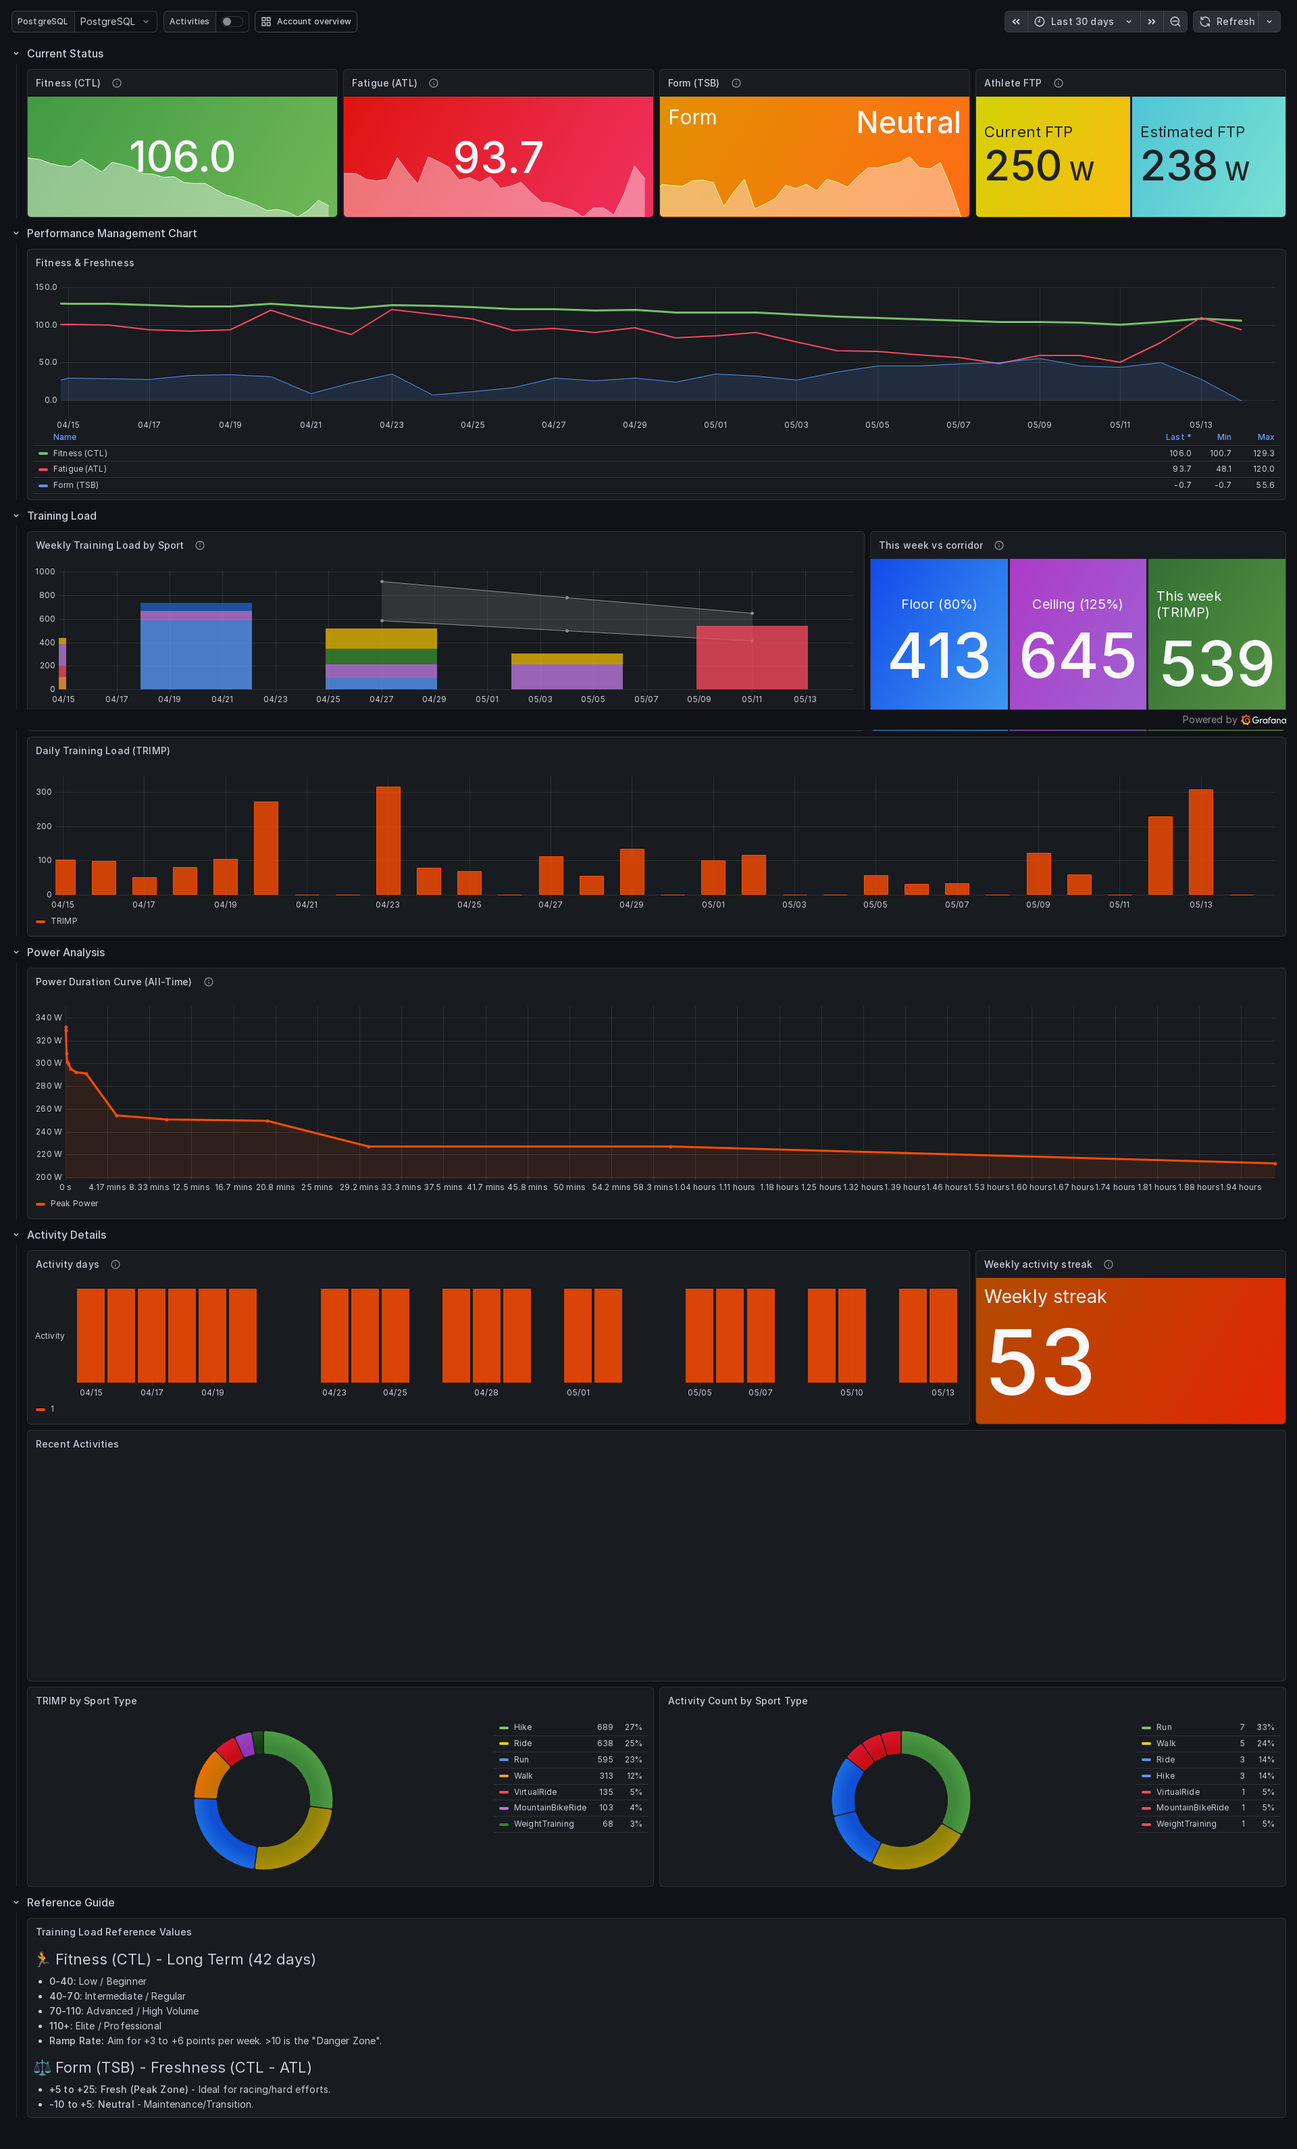
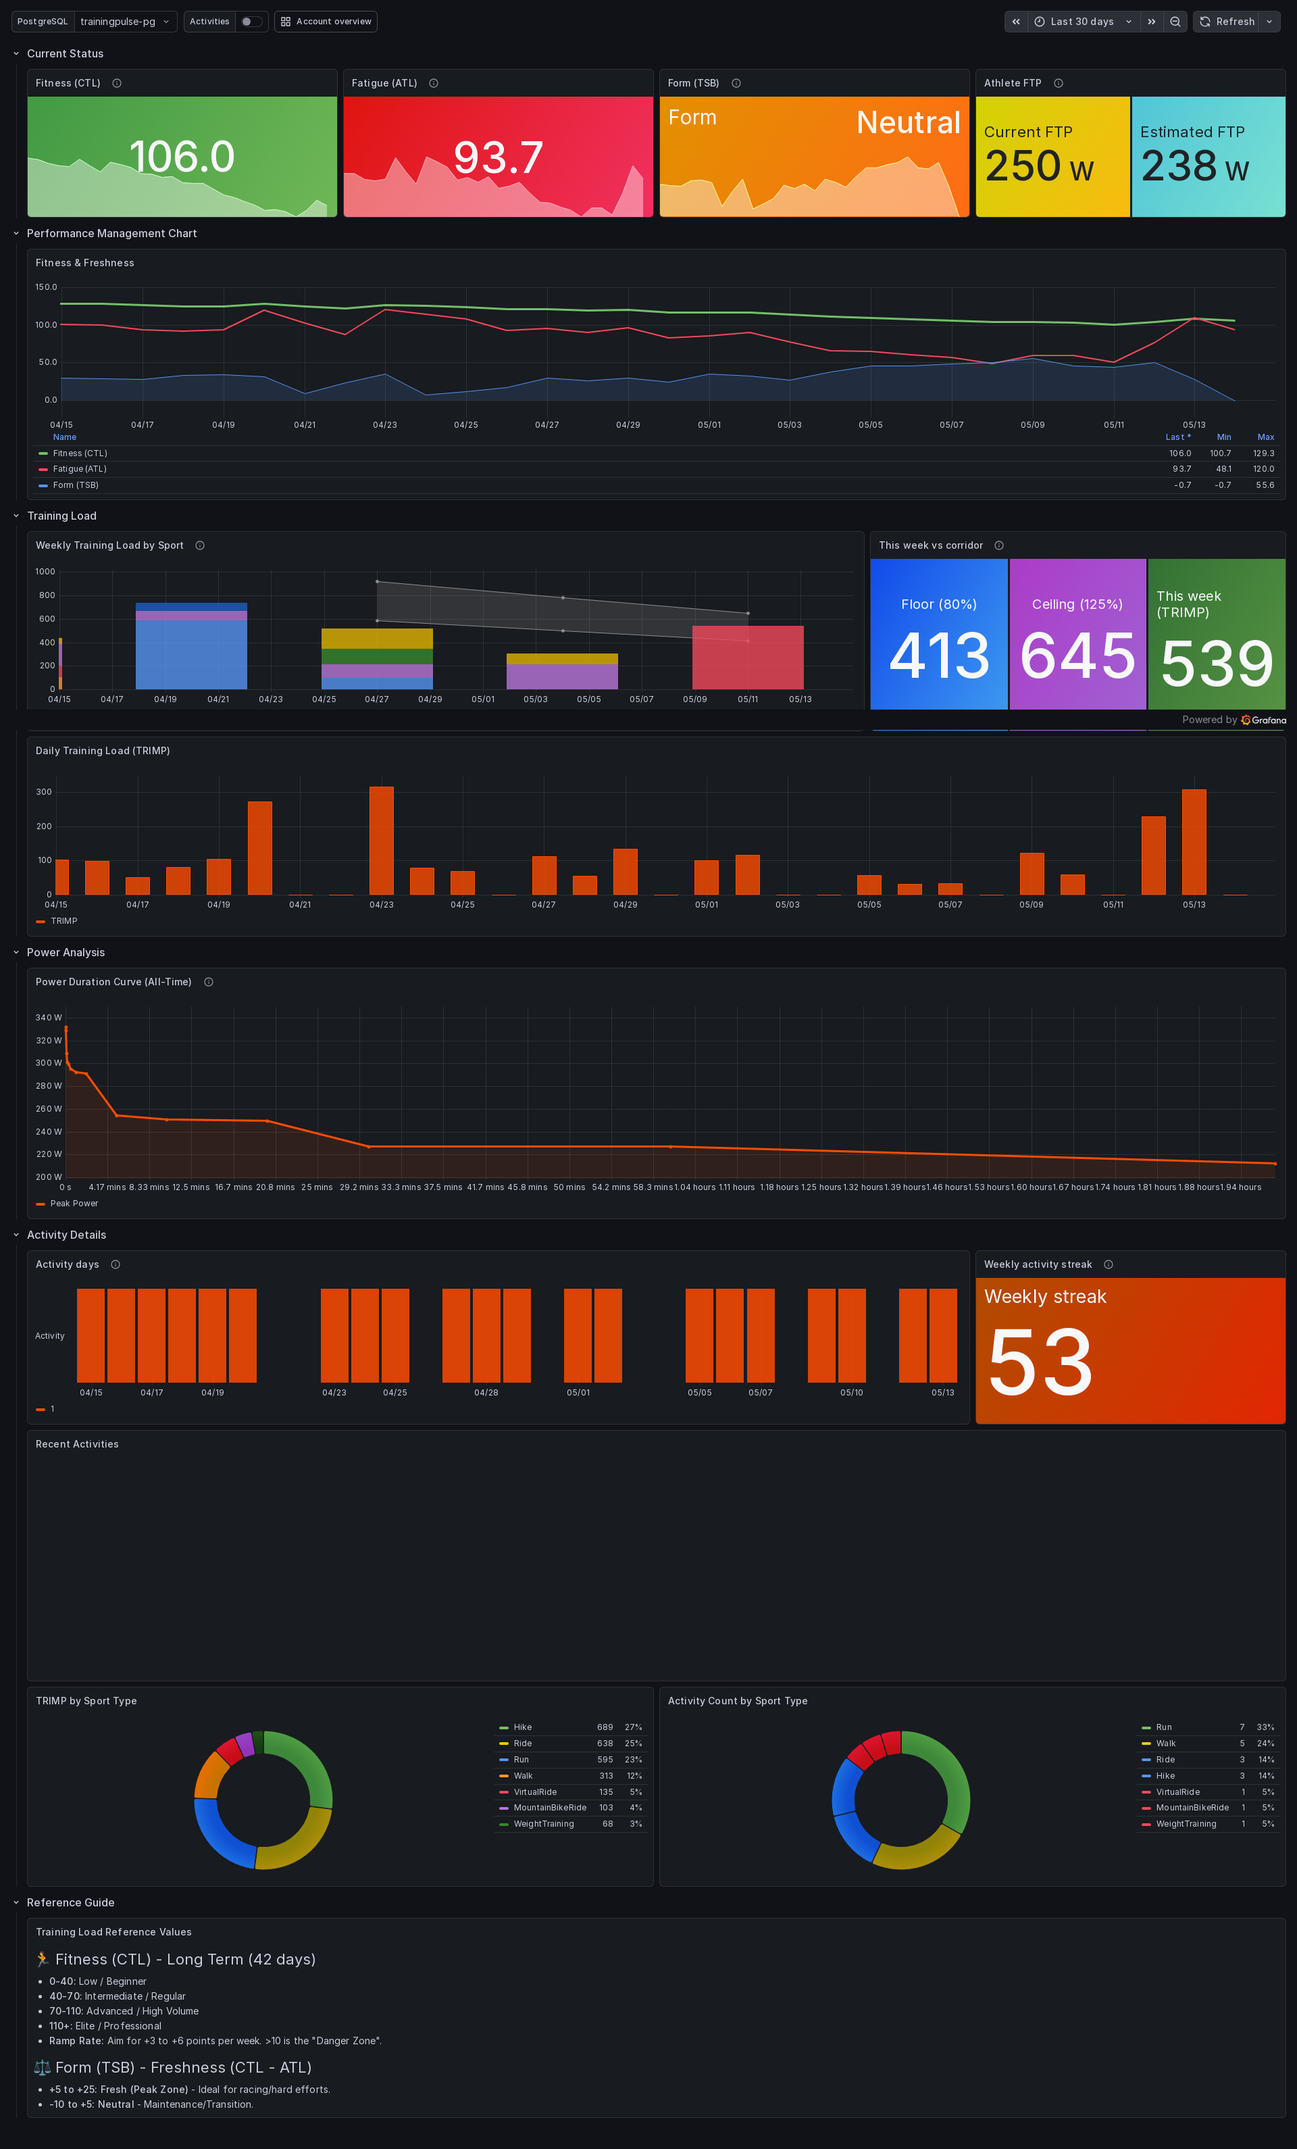
update branding

diff --git a/app/main.py b/app/main.py
@@ -1,8 +1,8 @@
-"""Strava Fitness Tracker — FastAPI application.
+"""TrainingPulse — FastAPI application.
 
 Provides:
 - OAuth2 login flow with Strava
-- Status page showing sync progress and current metrics
+- Status page showing sync progress and current metrics (TRIMP, CTL, ATL, TSB, and related training-load metrics)
 - Background scheduler for periodic syncing
 """
 
@@ -24,6 +24,8 @@ from database import async_session, engine
 from models import Activity, ActivityStream, Base, DailyMetrics, StravaToken
 from strava_client import StravaClient
 from sync import _snapshot_rate_limits, run_sync, sync_state
+
+APP_DISPLAY_NAME = "TrainingPulse"
 
 logging.basicConfig(
     level=logging.INFO,
@@ -53,7 +55,7 @@ async def lifespan(app: FastAPI):
         trigger_sync_task,
         "interval",
         minutes=settings.SYNC_INTERVAL_MINUTES,
-        id="strava_sync",
+        id="trainingpulse_sync",
         replace_existing=True,
         next_run_time=datetime.now(timezone.utc),  # Run immediately on startup
     )
@@ -69,7 +71,7 @@ async def lifespan(app: FastAPI):
     await engine.dispose()
 
 
-app = FastAPI(title="Strava Fitness Tracker", lifespan=lifespan)
+app = FastAPI(title=APP_DISPLAY_NAME, lifespan=lifespan)
 
 # Mount static files for assets and favicon
 app.mount("/static", StaticFiles(directory="static"), name="static")
@@ -166,10 +168,10 @@ async def auth_callback(code: str | None = None, error: str | None = None):
             "Connected!",
             f"""
             <div class="card success">
-                <h2>✅ Connected to Strava</h2>
+                <h2>✅ Strava account linked</h2>
                 <p>Welcome, <strong>{athlete.get('firstname', '')} {athlete.get('lastname', '')}</strong>!</p>
                 <p>Your activities are now being synced. This may take a while for the initial backfill.</p>
-                <p><a href="/" class="btn">View Status →</a></p>
+                <p><a href="/" class="btn btn-neutral">View Status →</a></p>
             </div>
             """,
         )
@@ -235,12 +237,15 @@ async def home():
                     "Setup Required",
                     f"""
                     <div class="card">
-                        <h2>🚴 Strava Fitness Tracker</h2>
-                        <p>Connect your Strava account to get started.</p>
+                        <h2>🚴 {APP_DISPLAY_NAME}</h2>
+                        <p>Connect your Strava account using the button below (opens Strava’s authorization page).</p>
                         <p>Make sure you have set the <strong>Authorization Callback Domain</strong>
                            in your <a href="https://www.strava.com/settings/api" target="_blank">
                            Strava API settings</a> to match your server hostname.</p>
-                        <a href="/auth/strava" class="btn btn-strava">Connect with Strava</a>
+                        <p class="fine-print">Compatible with Strava. Not affiliated with or endorsed by Strava.</p>
+                        <a href="/auth/strava" class="connect-with-strava">
+                            <img src="/static/assets/btn_strava_connect_with_orange.png" height="48" alt="Connect with Strava">
+                        </a>
                     </div>
                     """,
                 )
@@ -332,17 +337,17 @@ async def home():
                 <td>Last checked</td>
                 <td>
                     <span id="sync-rl-checked">Never</span>
-                    <button type="button" id="sync-rl-refresh" class="btn btn-sm" {"disabled" if sync_state.is_running else ""}>Refresh</button>
+                    <button type="button" id="sync-rl-refresh" class="btn btn-neutral btn-sm" {"disabled" if sync_state.is_running else ""}>Refresh</button>
                 </td>
             </tr>
             {error_row_initial}
         </table>
         <div class="sync-actions">
             <form action="/sync/trigger" method="post" style="display:inline;">
-                <button type="submit" class="btn" {"disabled" if sync_state.is_running else ""}>Sync Now</button>
+                <button type="submit" class="btn btn-neutral" {"disabled" if sync_state.is_running else ""}>Sync Now</button>
             </form>
             <form action="/sync/full" method="post" style="display:inline;" onsubmit="return confirm('Full resync will re-fetch all data and may take a long time. Continue?');">
-                <button type="submit" class="btn btn-warning" {"disabled" if sync_state.is_running else ""}>Full Resync</button>
+                <button type="submit" class="btn btn-caution" {"disabled" if sync_state.is_running else ""}>Full Resync</button>
             </form>
         </div>
     </div>
@@ -495,7 +500,7 @@ async def home():
         <h3>📈 Grafana Setup</h3>
         <p>Add a PostgreSQL data source in Grafana with these settings:</p>
         <table>
-            <tr><td>Host</td><td><code>strava-fitness-db:5432</code> (or your Docker network address)</td></tr>
+            <tr><td>Host</td><td><code>db:5432</code> (Docker Compose service name, or your network address)</td></tr>
             <tr><td>Database</td><td><code>strava_fitness</code></td></tr>
             <tr><td>User</td><td><code>strava</code></td></tr>
             <tr><td>Password</td><td><em>(your POSTGRES_PASSWORD)</em></td></tr>
@@ -506,11 +511,11 @@ async def home():
 
     return HTMLResponse(
         _page(
-            "Strava Fitness Tracker",
+            APP_DISPLAY_NAME,
             f"""
             <div style="display: flex; align-items: center; gap: 1rem; margin-bottom: 2rem;">
-                <img src="/static/assets/favicon.png" width="48" height="48" alt="Logo" style="border-radius: 8px;">
-                <h2 style="margin: 0;">Strava Fitness Tracker</h2>
+                <img src="/static/assets/favicon.svg" width="48" height="48" alt="{APP_DISPLAY_NAME}" style="border-radius: 8px;">
+                <h2 style="margin: 0;">{APP_DISPLAY_NAME}</h2>
             </div>
             {sync_info}
             {metrics_info}
@@ -611,7 +616,7 @@ async def refresh_rate_limit():
         if token is None:
             return JSONResponse(
                 status_code=400,
-                content={"error": "Not authenticated. Connect with Strava first."},
+                content={"error": "Not authenticated. Link your Strava account from the home page first."},
             )
         client = StravaClient(session)
         try:
@@ -653,35 +658,51 @@ def _page(title: str, body: str) -> str:
 <head>
     <meta charset="UTF-8">
     <meta name="viewport" content="width=device-width, initial-scale=1.0">
-    <link rel="icon" type="image/png" href="/static/assets/favicon.png">
-    <title>{title} — Strava Fitness Tracker</title>
+    <link rel="icon" type="image/svg+xml" href="/static/assets/favicon.svg">
+    <title>{title} — {APP_DISPLAY_NAME}</title>
     <style>
+        :root {{
+            --accent: #22d3ee;
+            --accent-hover: #06b6d4;
+            --accent-muted: #a5f3fc;
+            --bg-page: #0f0f0f;
+            --bg-card: #1a1a1a;
+            --bg-elevated: #222;
+            --border: #333;
+            --text: #e0e0e0;
+            --text-muted: #888;
+        }}
         * {{ margin: 0; padding: 0; box-sizing: border-box; }}
         body {{
             font-family: -apple-system, BlinkMacSystemFont, 'Segoe UI', Roboto, sans-serif;
-            background: #0f0f0f;
-            color: #e0e0e0;
+            background: var(--bg-page);
+            color: var(--text);
             padding: 2rem;
             max-width: 800px;
             margin: 0 auto;
             line-height: 1.6;
         }}
-        h2 {{ color: #fc4c02; margin-bottom: 1.5rem; }}
-        h3 {{ color: #fc4c02; margin-bottom: 1rem; }}
+        h2 {{ color: var(--accent); margin-bottom: 1.5rem; }}
+        h3 {{ color: var(--accent); margin-bottom: 1rem; }}
         .card {{
-            background: #1a1a1a;
-            border: 1px solid #333;
+            background: var(--bg-card);
+            border: 1px solid var(--border);
             border-radius: 12px;
             padding: 1.5rem;
             margin-bottom: 1.5rem;
         }}
         .card.success {{ border-color: #4caf50; }}
+        .fine-print {{
+            color: var(--text-muted);
+            font-size: 0.85rem;
+            margin: 0.75rem 0 0.5rem;
+        }}
         table {{ width: 100%; border-collapse: collapse; }}
         td {{
             padding: 0.5rem 0;
             border-bottom: 1px solid #222;
         }}
-        td:first-child {{ color: #888; width: 40%; }}
+        td:first-child {{ color: var(--text-muted); width: 40%; }}
         code {{
             background: #2a2a2a;
             padding: 0.15rem 0.4rem;
@@ -695,16 +716,31 @@ def _page(title: str, body: str) -> str:
             text-decoration: none;
             font-weight: 600;
             margin-top: 1rem;
+            border: none;
+            cursor: pointer;
+            font: inherit;
+            text-align: center;
         }}
-        .btn-strava {{
-            background: #fc4c02;
-            color: white;
+        .btn-neutral {{
+            background: #333;
+            color: #fff;
         }}
-        .btn-strava:hover {{ background: #e04400; }}
-        .btn {{ background: #333; color: #fff; }}
-        .btn:hover {{ background: #444; }}
-        .btn-warning {{ background: #ff9800; color: #000; }}
-        .btn-warning:hover {{ background: #f57c00; }}
+        .btn-neutral:hover {{ background: #444; }}
+        .connect-with-strava {{
+            display: inline-block;
+            margin-top: 1rem;
+            line-height: 0;
+        }}
+        .connect-with-strava img {{
+            height: 48px;
+            width: auto;
+            vertical-align: middle;
+        }}
+        .btn-caution {{
+            background: #ca8a04;
+            color: #111;
+        }}
+        .btn-caution:hover {{ background: #a16207; color: #111; }}
         .btn[disabled] {{ opacity: 0.5; cursor: not-allowed; }}
         .btn-sm {{
             padding: 0.25rem 0.75rem;
@@ -714,7 +750,7 @@ def _page(title: str, body: str) -> str:
             font-weight: 500;
         }}
         .rl-meta {{
-            color: #888;
+            color: var(--text-muted);
             font-size: 0.85rem;
             margin-left: 0.5rem;
         }}
@@ -729,19 +765,19 @@ def _page(title: str, body: str) -> str:
         .metric {{
             text-align: center;
             padding: 1rem;
-            background: #222;
+            background: var(--bg-elevated);
             border-radius: 8px;
         }}
         .metric-value {{
             display: block;
             font-size: 2rem;
             font-weight: 700;
-            color: #fc4c02;
+            color: var(--accent);
         }}
         .metric-label {{
             display: block;
             font-size: 0.85rem;
-            color: #888;
+            color: var(--text-muted);
             margin-top: 0.25rem;
         }}
         .form-status {{
@@ -749,7 +785,8 @@ def _page(title: str, body: str) -> str:
             font-size: 1.1rem;
             margin-top: 0.5rem;
         }}
-        a {{ color: #fc4c02; }}
+        a {{ color: var(--accent); }}
+        a:hover {{ color: var(--accent-hover); }}
         progress {{
             display: block;
             width: 100%;
@@ -767,12 +804,12 @@ def _page(title: str, body: str) -> str:
             border-radius: 4px;
         }}
         progress::-webkit-progress-value {{
-            background: #fc4c02;
+            background: var(--accent);
             border-radius: 4px;
             transition: width 0.3s ease;
         }}
         progress::-moz-progress-bar {{
-            background: #fc4c02;
+            background: var(--accent);
             border-radius: 4px;
         }}
     </style>

diff --git a/grafana/screenshot_dashboards.py b/grafana/screenshot_dashboards.py
@@ -57,16 +57,16 @@ def build_targets() -> list[Dashboard]:
     return [
         Dashboard(
             name="fitness",
-            path=f"{grafana}/d/strava-fitness/strava-fitness-and-freshness?orgId=1&{timerange}&kiosk",
+            path=f"{grafana}/d/trainingpulse-fitness/trainingpulse-fitness-and-freshness?orgId=1&{timerange}&kiosk",
         ),
         Dashboard(
             name="account_overview",
-            path=f"{grafana}/d/strava-account/strava-account-overview?orgId=1&{timerange}&kiosk",
+            path=f"{grafana}/d/trainingpulse-account/trainingpulse-account-overview?orgId=1&{timerange}&kiosk",
         ),
         Dashboard(
             name="activity_detail",
             path=(
-                f"{grafana}/d/strava-activity-detail/strava-activity-detail"
+                f"{grafana}/d/trainingpulse-activity-detail/trainingpulse-activity-detail"
                 f"?orgId=1&from={activity_from}&to={activity_to}"
                 f"&var-activity_id={activity_id}&kiosk"
             ),

diff --git a/app/sync.py b/app/sync.py
@@ -652,7 +652,7 @@ async def run_sync(session: AsyncSession, force_resync: bool = False):
         token = token_result.scalar_one_or_none()
         if token is None:
             sync_state.phase = "idle"
-            sync_state.last_error = "Not authenticated. Please connect with Strava."
+            sync_state.last_error = "Not authenticated. Link your Strava account from the home page."
             return
 
         athlete_id = token.athlete_id

diff --git a/app/models.py b/app/models.py
@@ -1,4 +1,4 @@
-"""SQLAlchemy models for the Strava fitness tracker."""
+"""SQLAlchemy models for TrainingPulse."""
 
 from datetime import date, datetime
 

diff --git a/README.md b/README.md
@@ -1,10 +1,14 @@
 <p align="center">
-  <img src="app/static/assets/favicon.png" width="200" alt="Strava Fitness Tracker Logo">
+  <img src="app/static/assets/favicon.svg" width="200" alt="TrainingPulse logo">
 </p>
 
-# Strava Fitness & Performance Tracker
+# TrainingPulse
 
-A self-hosted Docker stack that syncs your Strava activities into PostgreSQL, derives training-load metrics like TRIMP, CTL, ATL, TSB, and FTP, and visualizes everything in Grafana.
+Self-hosted sync and dashboards for your **Strava** activities: PostgreSQL storage, training-load metrics (**TRIMP**, CTL, ATL, TSB, FTP estimates), and Grafana visualization.
+
+## Strava trademark and API use
+
+**TrainingPulse is not affiliated with, endorsed by, or sponsored by Strava.** “Strava” is a trademark of Strava, Inc. Each person who runs this stack must register their own Strava API application and comply with the [Strava API Agreement](https://www.strava.com/legal/api) and [Strava API Brand Guidelines](https://developers.strava.com/guidelines).
 
 ## Disclaimer
 
@@ -54,7 +58,7 @@ Example views from the bundled dashboards.
 
    This brings up three containers: the FastAPI app on port `8000`, Grafana on port `3000`, and PostgreSQL (internal only).
 
-3. **Connect Strava.** Open the app at `http://your-host:8000/` and click **Connect with Strava** to authorize. The initial backfill starts automatically — the same page shows live progress, and ongoing syncs run every 15 minutes from then on.
+3. **Connect Strava.** Open the app at `http://your-host:8000/` and click the official **Connect with Strava** button to complete OAuth. The initial backfill starts automatically — the same page shows live progress, and ongoing syncs run every 15 minutes from then on.
 
 4. **Open Grafana.** Browse to `http://your-host:3000/`. The Postgres data source (**`strava-pg`**) and the bundled dashboards are provisioned automatically, so the dashboards appear without any manual setup.
 
@@ -80,3 +84,7 @@ Out of the box Max HR is `190`, Resting HR is `60`, and FTP comes from your Stra
 ## Going further
 
 For architecture, the HTTP API, the full list of environment variables, and how each metric is calculated, see [`DEVELOPERS.md`](DEVELOPERS.md).
+
+## License
+
+This program is free software: you can redistribute it and/or modify it under the terms of the **GNU General Public License v3.0** as published by the Free Software Foundation. See the [`LICENSE`](LICENSE) file for the full text.

diff --git a/DEVELOPERS.md b/DEVELOPERS.md
@@ -1,6 +1,6 @@
 # Developer notes
 
-Technical reference for people working on this project. Day-to-day setup lives in [`README.md`](README.md); this file covers architecture, the Strava endpoints we touch, the HTTP API, environment variables, and how training metrics are calculated.
+Technical reference for **TrainingPulse**. Day-to-day setup lives in [`README.md`](README.md); this file covers architecture, the Strava endpoints we touch, the HTTP API, environment variables, and how training metrics are calculated.
 
 ## Architecture
 
@@ -125,7 +125,9 @@ The script picks the highest-TRIMP recent ride for the activity-detail dashboard
 
 ## Source map
 
-- OAuth, status page, scheduler wiring: [`app/main.py`](app/main.py)
+- Strava **Connect with Strava** button asset: [`app/static/assets/btn_strava_connect_with_orange.png`](app/static/assets/btn_strava_connect_with_orange.png) — official artwork from the Strava API docs site (`btn_connectWith.png` at `https://strava.github.io/api/images/`). Do not substitute a custom-drawn button if you need to stay within Strava’s brand rules.
+
+- OAuth flow, status page, scheduler wiring: [`app/main.py`](app/main.py)
 - Sync orchestration, rate-limit handling, HR/FTP resolution: [`app/sync.py`](app/sync.py)
 - Training-load math (TRIMP, CTL, ATL, TSB, zones, power curve): [`app/metrics.py`](app/metrics.py)
 - SQLAlchemy schema: [`app/models.py`](app/models.py)
